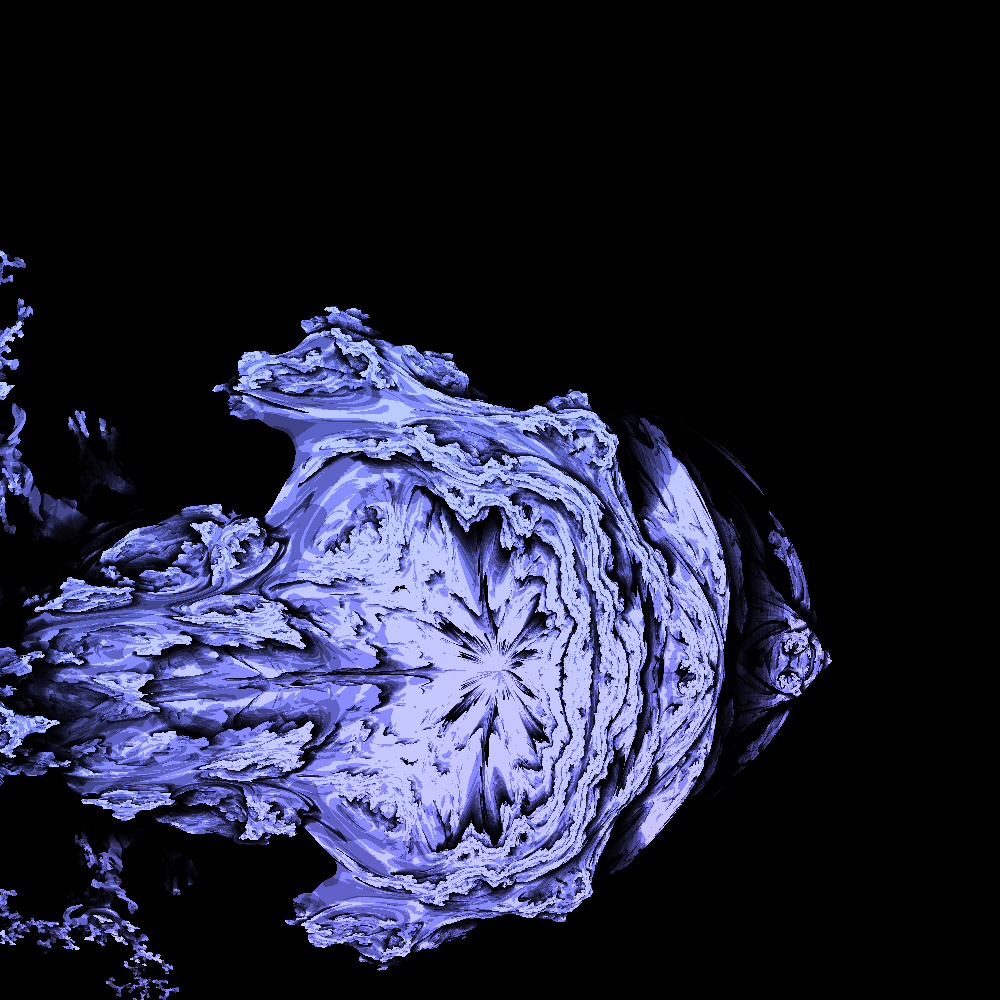
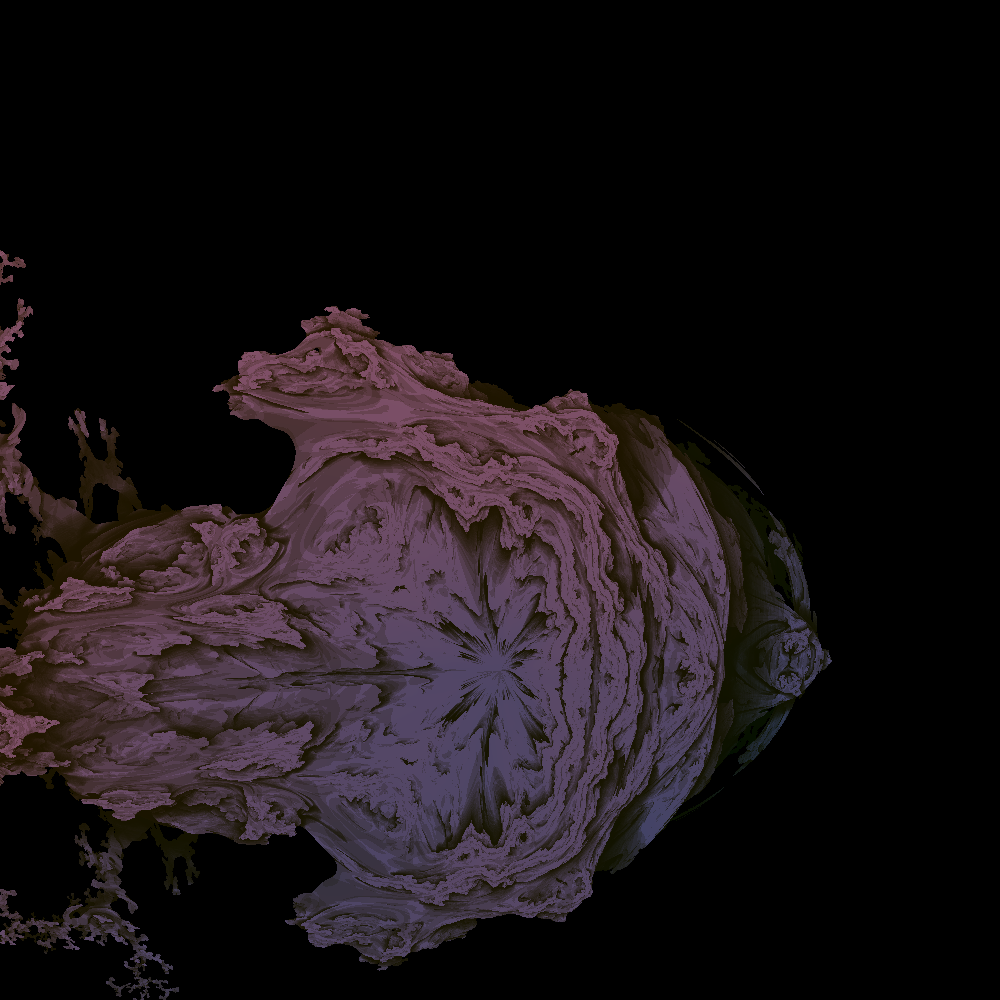
Actually using distance in shading...

diff --git a/src/geometry.rs b/src/geometry.rs
@@ -5,9 +5,9 @@ fn spectral_response(n: f32, channel: f32, width: f32) -> f32 {
 }
 
 fn color_from_scaler(n: f32) -> Vec3 {
-    let r = spectral_response(n, 2., 3.);
-    let g = spectral_response(n, 1., 3.);
-    let b = spectral_response(n, 0., 2.);
+    let r = spectral_response(n, 0., 2.);
+    let g = spectral_response(n, 0.1, 3.) * 0.5;
+    let b = spectral_response(n, 0., 3.);
     vec3![r, g, 0]
 }
 
@@ -36,7 +36,9 @@ impl Ray {
             }
         }
         if intersected_objects > 0 {
-            color_from_scaler(dist) * min_normal + vec3![min_normal[0]] * vec3![0, 0, 2]
+            color_from_scaler(dist) * 0.2
+                + color_from_scaler(dist) * min_normal
+                + vec3![min_normal[0]] * vec3![0, 0, 2] * 0.4
         } else {
             vec3![0]
         }
@@ -70,13 +72,13 @@ impl<T: RaymarchedGeometry + Copy> RaytracedGeometry for FakeRaytrace<T> {
     fn intersects(&self, ray: &Ray, t_min: f32, t_max: f32) -> Option<Intersection> {
         let mut dist = t_max;
         let mut t = t_min;
-        let mut not_a_normal = 0.8;
-        let mut highlight = 0.5;
+        let mut not_a_normal = 0.5;
+        let mut highlight = 1.;
         while dist > 0.0005 {
             let d = self.0.distance(ray.at(t));
             if d > dist {
-                not_a_normal *= 0.7;
-                highlight *= 0.2;
+                not_a_normal *= 0.8;
+                highlight *= 0.1;
             }
             if t > t_max {
                 return None;
